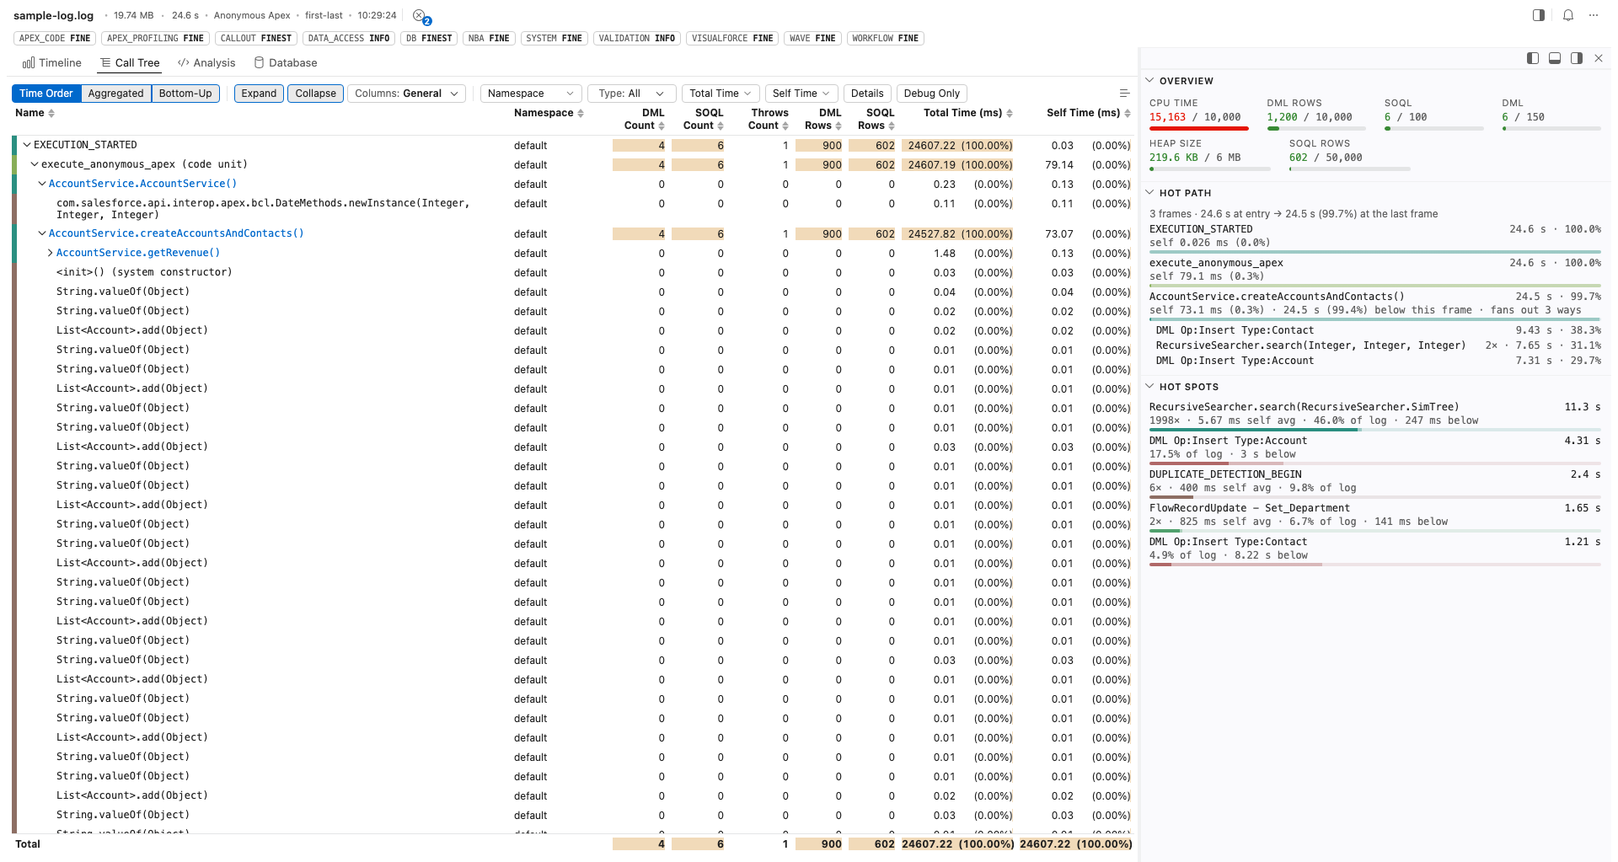
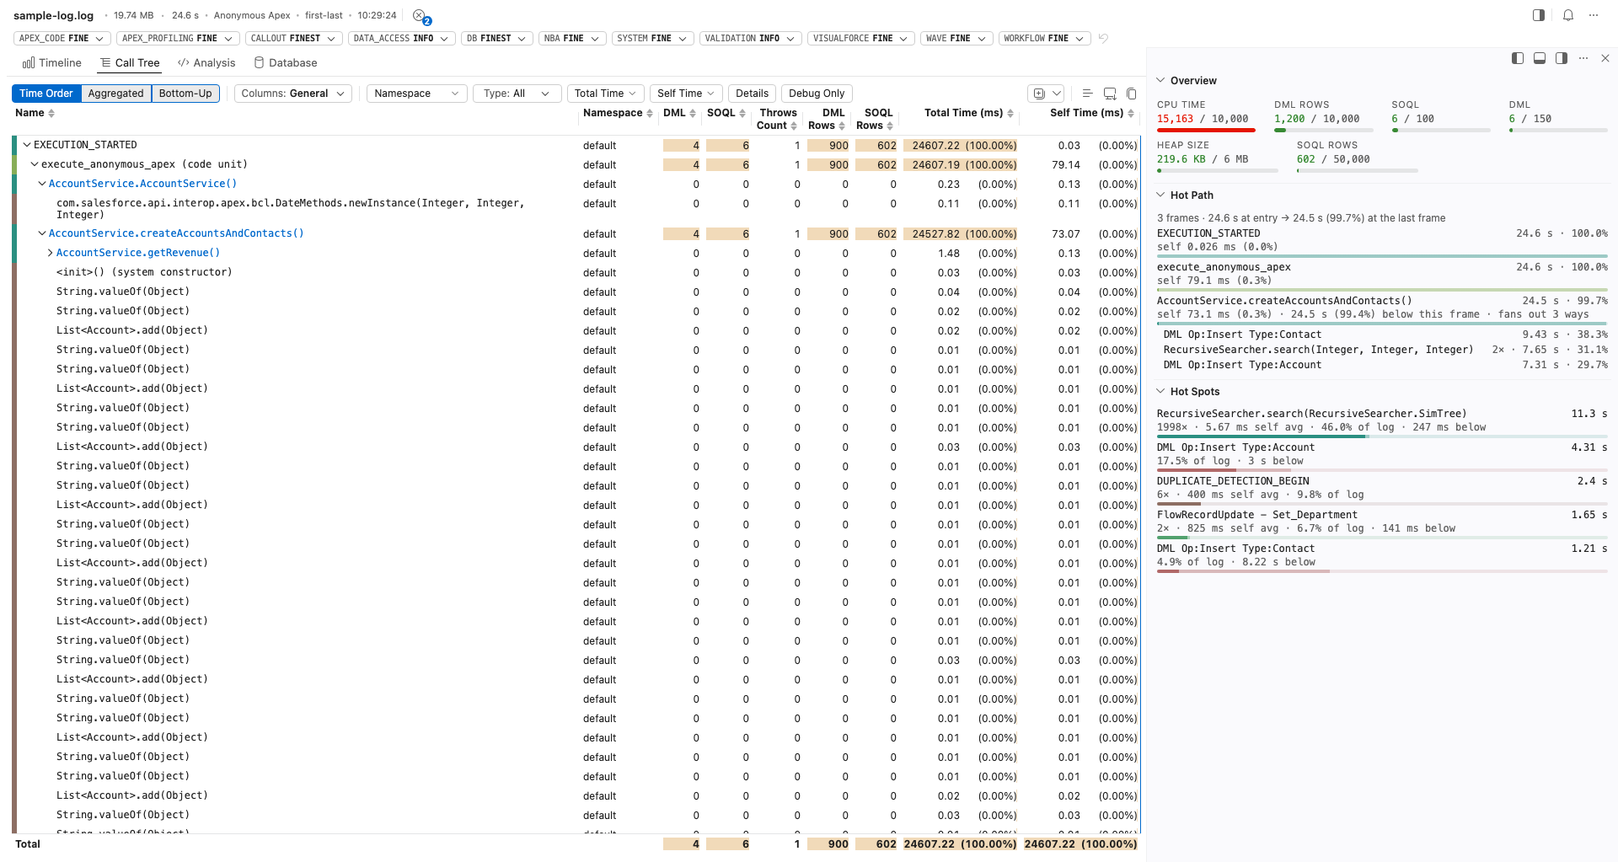
build: release 1.24.0 (#1266)
# 📝 PR Overview

Cuts the 1.24.0 release, due 2026-11-02. The feature work is already on
`main`, so this PR sets the version, dates the changelog, re-shoots
every README and docs screenshot from this build, and brings the README
and docs in line with what ships. See the [1.24.0 changelog
entry](CHANGELOG.md) for what is in the release.

## 🛠 Changes made

- Set `lana/package.json` to `1.24.0` and date the changelog
`2026-10-30`.
- Point the docs announcement bar and the homepage release list at
v1.24. Each release line now ends with "and more", so readers open the
changelog.
- Move the screenshots to `lana/assets/1_24/` and drop
`lana/assets/1_22/`. The log viewer shots are re-captured in dark and
light with `capture-web.mjs`. The hero gif is re-recorded, so it shows
the new tables. The two VS Code editor shots are copied forward, because
their UI did not change.
- Point the README, the docs, `constants.ts` and the screenshot scripts
at `1_24`.
- Fix the README and docs where they no longer match 1.24:
  - Debug level chips are now a filter.
  - Analysis has filters.
  - The Call Tree toolbar can copy and export to CSV.
  - Find behaves differently.
  - The inspector size is kept per machine.
  - Removing `lana.inspector.size` needs a migration step.

## 🧩 Type of change (check all applicable)

- [ ] 🐛 Bug fix - something not working as expected
- [ ] ✨ New feature – adds new functionality
- [ ] ♻ Refactor - internal changes with no user impact
[…]

diff --git a/lana-docs/src/components/home/Hero/index.tsx b/lana-docs/src/components/home/Hero/index.tsx
@@ -7,19 +7,19 @@ import styles from './styles.module.css';
 
 const RELEASES = [
   {
+    version: 'v1.24',
+    summary: 'Starts up 12× faster with 90% less memory, log level filters and more',
+    anchor: '1240---2026-11-02',
+  },
+  {
     version: 'v1.22',
-    summary: 'Inspector, Variables and heap analysis',
+    summary: 'Inspector, Variables and heap analysis, and more',
     anchor: '1220---2026-09-18',
   },
   {
     version: 'v1.20',
-    summary: 'New Timeline with a minimap, zoom and pan 7× faster',
+    summary: 'New Timeline with a minimap, zoom and pan 7× faster, and more',
     anchor: '1200---2026-06-18',
-  },
-  {
-    version: 'v1.18',
-    summary: 'Copy and CSV export from the Analysis and Database tables',
-    anchor: '1180---2025-07-09',
   },
 ];
 

diff --git a/lana-docs/docusaurus.config.ts b/lana-docs/docusaurus.config.ts
@@ -115,8 +115,8 @@ const config: Config = {
       respectPrefersColorScheme: true,
     },
     announcementBar: {
-      id: 'lana-1_22_0', // Unique ID to prevent showing again if dismissed
-      content: `🎉 <b><a href="/${projectName}/community/changelog">Apex Log Analyzer v1.22</a> is out!</b>`,
+      id: 'lana-1_24_0', // Unique ID to prevent showing again if dismissed
+      content: `🎉 <b><a href="/${projectName}/community/changelog">Apex Log Analyzer v1.24</a> is out!</b>`,
       isCloseable: true,
       backgroundColor: 'var(--lana-surface)',
       textColor: 'var(--lana-ink)',

diff --git a/lana-docs/src/components/home/Features/index.tsx b/lana-docs/src/components/home/Features/index.tsx
@@ -40,6 +40,7 @@ const FEATURES: Feature[] = [
     title: 'Follow the execution',
     summary: 'Every call, with what it cost.',
     points: [
+      'Tables respond up to `30×` faster on large logs in v1.24',
       'Expand, filter and scroll `3×` faster in v1.16',
       'Go to Code `6× to 10×` faster in large projects in v1.22',
       'Three views: `Time Order`, `Aggregated` and `Bottom-Up`',

diff --git a/lana-docs/src/constants.ts b/lana-docs/src/constants.ts
@@ -1,6 +1,6 @@
 /** Versioned screenshot folder. RELEASING.md bumps the version each stable release. */
 export const ASSETS_URL =
-  'https://raw.githubusercontent.com/certinia/debug-log-analyzer/main/lana/assets/1_22';
+  'https://raw.githubusercontent.com/certinia/debug-log-analyzer/main/lana/assets/1_24';
 
 /** The extension's VS Code Marketplace page. */
 export const MARKETPLACE_URL =

diff --git a/README.md b/README.md
@@ -3,7 +3,7 @@
 **Find what made a Salesforce Apex transaction slow.**  
 Apex Log Analyzer is a fast VS Code extension for Salesforce developers. Instantly visualize and debug Apex logs with interactive flame charts, dynamic call trees, and detailed SOQL/DML breakdowns. Identify performance bottlenecks, gain deep insight into complex transactions and optimize slow Apex methods faster than ever.
 
-![Apex Log Analyzer Preview](https://raw.githubusercontent.com/certinia/debug-log-analyzer/main/lana/assets/1_22/preview.gif)
+![Apex Log Analyzer Preview](https://raw.githubusercontent.com/certinia/debug-log-analyzer/main/lana/assets/1_24/preview.gif)
 
 [Installation](#%EF%B8%8F-installation 'Install Apex Log Analyzer in VS Code') |
 [Debug Log Levels](#%EF%B8%8F-recommended-debug-log-levels 'Go to Recommended Debug Log Levels') |
@@ -90,8 +90,8 @@ The bar above the tabs summarizes the log at a glance:
 
 - **Log problems** - A chip for problems found in the log itself (governor limit exceptions, fatal errors, skipped lines), with a count badge; click it for the full breakdown.
 - **Notifications** - A separate bell for messages about the tool rather than the log, kept apart from log problems so the two don't read as one severity count.
-- **Log info** - Entry point, user, and start time; hover for full details.
-- **Debug levels** - Chips showing the debug levels the log was captured with, one per category. Read-only display, not a filter.
+- **Log info** - Entry point, user, and start time; hover for full details. With more than one entry point, it names the longest and counts the rest.
+- **Debug levels** - Chips show the debug levels the log was captured with, one per category. Pick a lower level on a chip to filter the log to that level.
 - **`•••` menu** - Help, report an issue, and whatever the header sheds as the window narrows.
 
 ## 🔥 Timeline
@@ -105,9 +105,9 @@ The Timeline view shows a live visualization of your Salesforce Apex log executi
 - **🕐 Wall-Clock Time** - Toggle between elapsed and real-time (HH:MM:SS.mmm) on the time axis via the toolbar clock button.
 - **🧭 [Inspector](#-inspector)** - Select a frame to inspect it alongside the chart.
 
-Also: Frame Selection & Navigation, Dynamic Frame Labels, Adaptive Frame Detail, Tooltips, Context Menu, Search & Highlight, 19 Curated Themes.
+Also: Frame Selection & Navigation, Dynamic Frame Labels, Adaptive Frame Detail, Tooltips, Context Menu, Search & Highlight, Legend Highlight (hover a category to highlight its frames), 19 Curated Themes.
 
-![Flame Chart](https://raw.githubusercontent.com/certinia/debug-log-analyzer/main/lana/assets/1_22/timeline.png)
+![Flame Chart](https://raw.githubusercontent.com/certinia/debug-log-analyzer/main/lana/assets/1_24/timeline.png)
 
 > 🧠 Great for spotting long-running operations, inefficient queries, and bottlenecks.
 
@@ -115,13 +115,15 @@ Also: Frame Selection & Navigation, Dynamic Frame Labels, Adaptive Frame Detail,
 
 Explore nested method calls with performance metrics:
 
-- **Metrics**: Self Time, Total Time, SOQL/DML/SOSL Counts + Rows, Heap (net/gross/peak), Governor Limit Avg + Peak, Thrown
+- **Metrics**: Self Time, Total Time, SOQL/DML/SOSL Counts + Rows, the SOQL/DML/SOSL usage Salesforce reported, Heap (net/gross/peak), Governor Limit Avg + Peak, Thrown
 - **Call Tree Views**: Use Time Order for sequence, Aggregated for repeated hot paths, Bottom-Up for caller attribution
 - **Column Views** - Switch preset column sets (General, Time, Governor Limits, Database, Memory), show/hide columns from the header menu, reset to defaults
-- **Column widths** - Sized to fit their header and values, across every table in the extension
-- **Group Bottom-Up by Namespace or Type**
-- **Filter bar** - Namespace, event Type, and a Total/Self Time range, plus **Details** and **Debug Only** toggles
-- **Keyboard Navigation**
+- **Column widths** - Sized to fit their content and fill the table, across every table in the extension. Autosize or reset them from the column menu.
+- **Group Bottom-Up by Namespace, Caller Namespace or Type**
+- **Filter bar** - Namespace, event Type, and a Total/Self Time range, plus **Details** and **Debug Only** toggles. With Details off, you see every method, query and DML, and no debug lines or variables.
+- **Expand and Collapse** - Open or close one level per click, or all levels from the menu
+- **Keyboard Navigation** and screen reader support
+- **Copy or Export to CSV** - `Cmd/Ctrl+C` copies the filtered rows with their depth
 - **Click to go to Code** - Jump to the source method in your project
 - **[Inspector](#-inspector)** - Select a row to inspect just that call path
 
@@ -135,23 +137,24 @@ Select anything - a timeline frame, a call tree or analysis row, a SOQL/DML/SOSL
 - **Call Stack** - The frames that led to the selection, with total and self time.
 - **Call Tree** - The selection's own subtree, in Time Order, Aggregated or Bottom-Up. Scoped to what you picked, which is what makes it different from the Call Tree tab.
 - **SOQL Issues** - Optimization tips for the selected query.
-- **Nothing selected?** - It shows the whole log: the governor metrics closest to their limits; on the Timeline tab, time by category, governor usage over time and the full call tree; and on the Analysis tab a **Findings** list - what is slow or wrong in the log, each finding linking to the row behind it.
-- **Dock it where you want** - Left, right or bottom; drag to resize, collapse the sections you don't need. Your layout is remembered.
+- **Nothing selected?** - It shows the whole log: the governor metrics closest to their limits; on the Timeline tab, time by category, governor usage over time and the call tree, for the part of the log in view; and on the Analysis tab a **Findings** list - what is slow or wrong in the log, each finding linking to the row behind it.
+- **Dock it where you want** - Left, right or bottom; drag to resize, collapse the sections you don't need, or maximize one section. Show, hide or reset sections from the header menu. Your layout is remembered, and the size is kept on each machine. Double-click the edge to reset the size.
 - **Right-click a row** for **Show in Call Tree**, **Copy Name**, **Copy Details** or **Copy Call Stack**; `Cmd/Ctrl+C` copies the table.
 
-![Inspector](https://raw.githubusercontent.com/certinia/debug-log-analyzer/main/lana/assets/1_22/inspector.png)
+![Inspector](https://raw.githubusercontent.com/certinia/debug-log-analyzer/main/lana/assets/1_24/inspector.png)
 
 ## 🧠 Apex Analysis
 
-See which methods are the slowest, most frequent. or expensive.
+See which methods are the slowest, most frequent, or expensive.
 
-- **Group by Type, Namespace, or Caller Namespace **
+- **Group by Type, Namespace, or Caller Namespace**
 - **Column Views** - Preset column sets, show/hide columns, reset to defaults
 - **Sort by Duration, Count, Name, Type or Namespace**
-- **Filter** - show or hide zero-time events (Details)
+- **Filter bar** - Namespace and a Total/Self Time range, plus a **Details** toggle
+- **Expand and Collapse** - Open or close one level per click, or all levels from the menu
 - **Copy or Export to CSV**
 
-![Analysis](https://raw.githubusercontent.com/certinia/debug-log-analyzer/main/lana/assets/1_22/analysis.png)
+![Analysis](https://raw.githubusercontent.com/certinia/debug-log-analyzer/main/lana/assets/1_24/analysis.png)
 
 ## 🗄 Database Analysis
 
@@ -160,7 +163,7 @@ Highlight slow Salesforce SOQL queries, non-selective filters, and DML issues, a
 - **Governor limit overview** - SOQL, SOSL, DML and query/DML rows shown as `used / limit` at the top of the tab.
 - **Tracked vs consumed** - each section reconciles statements seen in the log against the governor-counted total, so you can spot queries that didn't count (e.g. custom metadata).
 - **Separate SOQL, DML and SOSL tables** - SOSL is fully searchable, with its rows metered against the 2,000-per-query cap.
-- **Object column + Group by Object / Namespace / Caller Namespace / Query**
+- **Object column + Group by Object / Namespace / Caller Namespace / Query** - open or close all groups with one click
 - **Filter bar** - Namespace, Object, Caller Namespace, and a Row Count / Time Taken range
 - **SOQL Duration, Selectivity, Aggregates, Row Count**
 - **Column Views** - Preset column sets (incl. a SOQL Query Plan view), show/hide columns, reset to defaults
@@ -168,7 +171,7 @@ Highlight slow Salesforce SOQL queries, non-selective filters, and DML issues, a
 - **[Inspector](#-inspector)** - select a statement to inspect it, including its SOQL optimization tips
 - **Sort**, **Copy or Export to CSV**
 
-![Database](https://raw.githubusercontent.com/certinia/debug-log-analyzer/main/lana/assets/1_22/database.png)
+![Database](https://raw.githubusercontent.com/certinia/debug-log-analyzer/main/lana/assets/1_24/database.png)
 
 ## 📊 Governor Limits + Heap
 
@@ -190,7 +193,7 @@ Search across all visualizations:
 - Analysis
 - Database
 
-Quickly step through matches, auto-expand parents, and automatically show timeline tooltips.
+Matches highlight as you type, and typing goes to the nearest visible match. Step through matches, auto-expand parents, and automatically show timeline tooltips. The search stays after a sort, filter, group by, column change or view switch, and it also matches table group headers.
 
 ## 📄 Raw Log Navigation
 

diff --git a/lana-docs/docs/docs/features/inspector.md b/lana-docs/docs/docs/features/inspector.md
@@ -13,7 +13,7 @@ keywords:
     apex log analyzer,
     salesforce developer tools,
   ]
-image: https://raw.githubusercontent.com/certinia/debug-log-analyzer/main/lana/assets/1_22/inspector.png
+image: https://raw.githubusercontent.com/certinia/debug-log-analyzer/main/lana/assets/1_24/inspector.png
 hide_title: true
 ---
 
@@ -21,10 +21,10 @@ hide_title: true
 
 Select anything - a Timeline frame, a Call Tree or Analysis row, a SOQL/DML/SOSL statement - and the inspector shows it in depth without you leaving the tab you're working in.
 
-It docks to the **right**, **left** or **bottom**, resizes by dragging its edge, and is toggled from the button in the header. To go back to the default size, double-click its edge or pick **Reset Inspector Size** from a section header's menu. It opens on your first selection, then stays however you left it, including the next time you open a log. See [Settings](../settings.mdx#inspector).
+It docks to the **right**, **left** or **bottom**, resizes by dragging its edge, and is toggled from the button in the header. To go back to the default size, double-click its edge or pick **Reset Inspector Size** from a section header's menu. It opens on your first selection, then stays however you left it, including the next time you open a log. Its size is kept on each machine. See [Settings](../settings.mdx#inspector).
 
-![The inspector on the Analysis tab reading the whole log: the governor metrics nearest a limit, the log's findings, and how few signatures hold its self time.](https://raw.githubusercontent.com/certinia/debug-log-analyzer/main/lana/assets/1_22/inspector.png#gh-dark-mode-only)
-![The inspector on the Analysis tab reading the whole log: the governor metrics nearest a limit, the log's findings, and how few signatures hold its self time.](https://raw.githubusercontent.com/certinia/debug-log-analyzer/main/lana/assets/1_22/inspector-light.png#gh-light-mode-only)
+![The inspector on the Analysis tab reading the whole log: the governor metrics nearest a limit, the log's findings, and how few signatures hold its self time.](https://raw.githubusercontent.com/certinia/debug-log-analyzer/main/lana/assets/1_24/inspector.png#gh-dark-mode-only)
+![The inspector on the Analysis tab reading the whole log: the governor metrics nearest a limit, the log's findings, and how few signatures hold its self time.](https://raw.githubusercontent.com/certinia/debug-log-analyzer/main/lana/assets/1_24/inspector-light.png#gh-light-mode-only)
 
 ### Sections
 
@@ -33,7 +33,7 @@ It docks to the **right**, **left** or **bottom**, resizes by dragging its edge,
 - **Self Time by Namespace** - Timeline only: the self time under the selection split by the namespace whose code ran it, so you can see whose package burned it. Every namespace bar colours the six biggest and gathers the rest into one **others** segment, which names them on hover.
 - **Findings** - Analysis only: which of the log's findings name the selected method or anything it called, so you can tell whether the row you picked is one of the log's problems.
 - **Call Stack** - the parent frames that led to the selection, outermost first, with total and self time.
-- **Call Tree** - **Time Order** and **Aggregated** run from the log root through the selection's callers into what ran inside it; **Bottom-Up** ranks what ran inside it by self time. A caller holds only the time that reached the selection, so the tree reads 100% down to it and everything below is a share of it.
+- **Call Tree** - **Time Order** and **Aggregated** run from the log root through the selection's callers into what ran inside it; **Bottom-Up** ranks what ran inside it by self time. A caller holds only the time that reached the selection, so the tree reads 100% down to it and everything below is a share of it. As in the tables, with **Details** off it shows every method, query and DML, even one that took no time, and hides debug lines and variables.
 - **SOQL Issues** - SOQL only: optimization tips for the query.
 
 Collapse a section by clicking its header. Drag a header to reorder the stack, or press `Alt+Up` / `Alt+Down` on it. Right-click a header to choose which sections show, or to reset the list. Each list keeps its own choices - every tab, and **Detail** apart from **Summary** - because one section answers a different question in each.

diff --git a/lana-docs/docs/docs/features/database.md b/lana-docs/docs/docs/features/database.md
@@ -16,7 +16,7 @@ keywords:
     salesforce developer tools,
     salesforce query optimization,
   ]
-image: https://raw.githubusercontent.com/certinia/debug-log-analyzer/main/lana/assets/1_22/database.png
+image: https://raw.githubusercontent.com/certinia/debug-log-analyzer/main/lana/assets/1_24/database.png
 hide_title: true
 ---
 
@@ -24,8 +24,8 @@ hide_title: true
 
 Database insights help Salesforce developers analyze DML, SOQL and SOSL operations, assess query selectivity, performance, and aggregations, and optimize Apex code using advanced sorting, grouping, filtering, call stack tracing, and CSV export tools.
 
-![Database view screenshot displaying DML, SOQL and SOSL operations with row counts, execution times, selectivity indicators, and aggregation details for Salesforce log analysis.](https://raw.githubusercontent.com/certinia/debug-log-analyzer/main/lana/assets/1_22/database.png#gh-dark-mode-only)
-![Database view screenshot displaying DML, SOQL and SOSL operations with row counts, execution times, selectivity indicators, and aggregation details for Salesforce log analysis.](https://raw.githubusercontent.com/certinia/debug-log-analyzer/main/lana/assets/1_22/database-light.png#gh-light-mode-only)
+![Database view screenshot displaying DML, SOQL and SOSL operations with row counts, execution times, selectivity indicators, and aggregation details for Salesforce log analysis.](https://raw.githubusercontent.com/certinia/debug-log-analyzer/main/lana/assets/1_24/database.png#gh-dark-mode-only)
+![Database view screenshot displaying DML, SOQL and SOSL operations with row counts, execution times, selectivity indicators, and aggregation details for Salesforce log analysis.](https://raw.githubusercontent.com/certinia/debug-log-analyzer/main/lana/assets/1_24/database-light.png#gh-light-mode-only)
 
 The tab has separate **DML**, **SOQL** and **SOSL** sections
 
@@ -64,6 +64,8 @@ SOQL and DML can be grouped by **Object** (the queried/target SObject), **Namesp
 
 **Caller Namespace** is the namespace of the direct caller that issued the statement, handy for seeing which package's code is responsible, even when the time is attributed to the default namespace.
 
+The expand button in the toolbar opens or closes all groups with one click.
+
 ### Inspect a statement
 
 Selecting a SOQL, DML or SOSL row opens the [inspector](./inspector.md), which shows that statement's vitals and governor metrics, the call stack that led to it, a call tree scoped to it, and - for SOQL - its optimization tips.
@@ -75,4 +77,4 @@ Right-click any statement and choose **Show in Call Tree** to jump to it in the 
 ### Export to CSV + copy to clipboard
 
 Use `Export to CSV` above the table to save the table content to a file or `Copy to Clipboard`.
-You can also focus the DML/ SOQL tables and use `CMD / CTRL + c` to copy the table content to clipboard. This can then be pasted into a spreadsheet or other file.
+You can also focus the DML/ SOQL tables and use `CMD / CTRL + c` to copy the rows that pass the filters. When rows have children, the copy starts with a Level column for their depth. This can then be pasted into a spreadsheet or other file. See [Call Tree copy](./calltree.mdx#copy).

diff --git a/lana-docs/docs/docs/features/analysis.md b/lana-docs/docs/docs/features/analysis.md
@@ -12,7 +12,7 @@ keywords:
     filter salesforce logs,
     salesforce developer tools,
   ]
-image: https://raw.githubusercontent.com/certinia/debug-log-analyzer/main/lana/assets/1_22/analysis.png
+image: https://raw.githubusercontent.com/certinia/debug-log-analyzer/main/lana/assets/1_24/analysis.png
 hide_title: true
 ---
 
@@ -20,8 +20,8 @@ hide_title: true
 
 Analyze Salesforce debug logs with detailed metrics on method calls, including Self Time, Total Time, Count, Name, and Type. Easily sort, filter, and group log events by namespace or type, and export or copy results for efficient troubleshooting and performance optimization. The Analysis table uses a bottom-up caller grouping model, where each method is shown as a root with its direct callers as children.
 
-![Analysis view screenshot showing method call metrics such as Self Time, Total Time, Count, Name, and Type](https://raw.githubusercontent.com/certinia/debug-log-analyzer/main/lana/assets/1_22/analysis.png#gh-dark-mode-only)
-![Analysis view screenshot showing method call metrics such as Self Time, Total Time, Count, Name, and Type](https://raw.githubusercontent.com/certinia/debug-log-analyzer/main/lana/assets/1_22/analysis-light.png#gh-light-mode-only)
+![Analysis view screenshot showing method call metrics such as Self Time, Total Time, Count, Name, and Type](https://raw.githubusercontent.com/certinia/debug-log-analyzer/main/lana/assets/1_24/analysis.png#gh-dark-mode-only)
+![Analysis view screenshot showing method call metrics such as Self Time, Total Time, Count, Name, and Type](https://raw.githubusercontent.com/certinia/debug-log-analyzer/main/lana/assets/1_24/analysis-light.png#gh-light-mode-only)
 
 ### Sort
 
@@ -35,6 +35,8 @@ The expand button in the toolbar opens or closes one level per click, and its me
 ### Filtering
 
 1. **Details** - off by default, which shows only methods, queries and DML, even with 0 time. Turn it on from the **filters** to also show debug lines, variables, exceptions and limit usage.
+1. **Namespace** - keep one or more namespaces from the dropdown.
+1. **Total Time** / **Self Time** - set a _min-max_ range.
 
 ### Column Views
 
@@ -58,4 +60,4 @@ Selecting a row fills the [inspector](./inspector.md) with that method's governo
 ### Export to CSV + copy to clipboard
 
 Use `Export to CSV` above the table to save the table content to a file or `Copy to Clipboard`.
-You can also focus the Analysis tables and use `CMD / CTRL + c` to copy the table content to clipboard. This can then be pasted into a spreadsheet or other file.
+You can also focus the Analysis table and use `CMD / CTRL + c` to copy the rows that pass the filters. When rows have children, the copy starts with a Level column for their depth. This can then be pasted into a spreadsheet or other file. See [Call Tree copy](./calltree.mdx#copy).

diff --git a/CHANGELOG.md b/CHANGELOG.md
@@ -5,7 +5,7 @@ All notable changes to this project will be documented in this file.
 The format is based on [Keep a Changelog](https://keepachangelog.com/en/1.0.0/),
 and this project adheres to [Semantic Versioning](https://semver.org/spec/v2.0.0.html).
 
-## [Unreleased]
+## [1.24.0] - 2026-11-02
 
 ### Added
 
@@ -611,7 +611,7 @@ Skipped due to adopting odd numbering for pre releases and even number for relea
 - Add explorer menu item.
 - Provide more information when selecting log to download.
 
-<!-- Unreleased -->
+<!-- 1.24.0 -->
 
 [#1231]: https://github.com/certinia/debug-log-analyzer/issues/1231
 [#1225]: https://github.com/certinia/debug-log-analyzer/issues/1225

diff --git a/lana-docs/docs/docs/features/governor-limits-heap.md b/lana-docs/docs/docs/features/governor-limits-heap.md
@@ -13,7 +13,7 @@ keywords:
     salesforce debug log analysis,
     apex log analyzer,
   ]
-image: https://raw.githubusercontent.com/certinia/debug-log-analyzer/main/lana/assets/1_22/timeline.png
+image: https://raw.githubusercontent.com/certinia/debug-log-analyzer/main/lana/assets/1_24/timeline.png
 hide_title: true
 ---
 

diff --git a/lana-docs/docs/docs/guides/slow-transaction.md b/lana-docs/docs/docs/guides/slow-transaction.md
@@ -11,7 +11,7 @@ keywords:
     apex debug log analysis,
     apex log analyzer guide,
   ]
-image: https://raw.githubusercontent.com/certinia/debug-log-analyzer/main/lana/assets/1_22/timeline.png
+image: https://raw.githubusercontent.com/certinia/debug-log-analyzer/main/lana/assets/1_24/timeline.png
 hide_title: true
 ---
 
